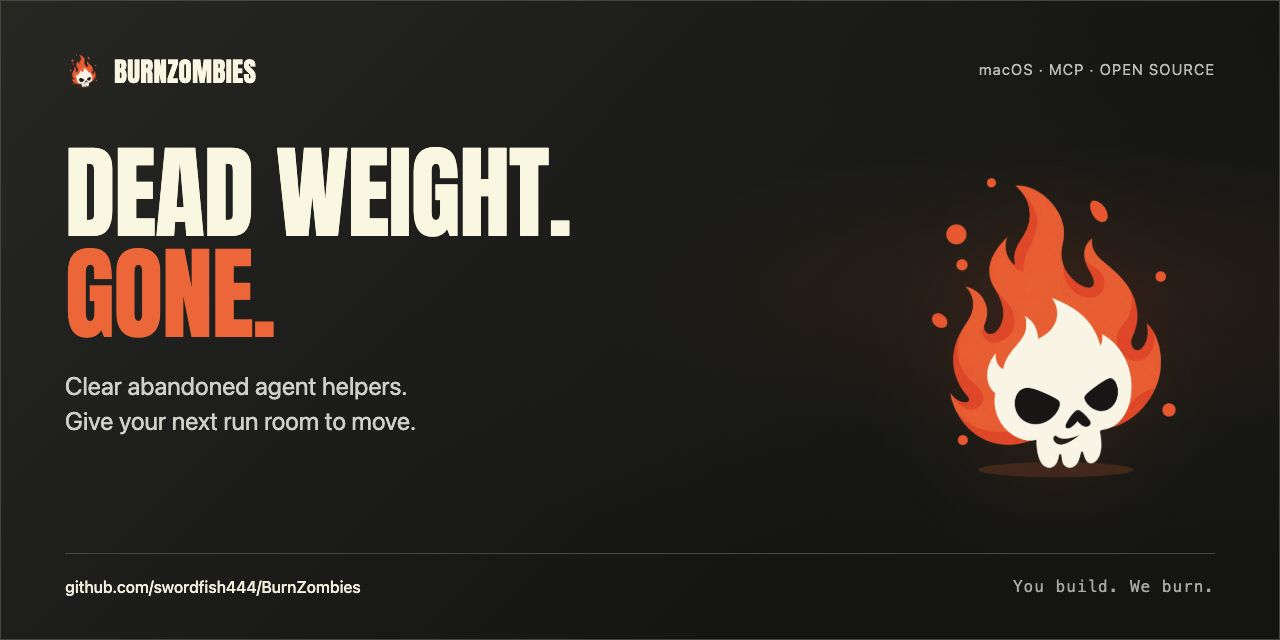
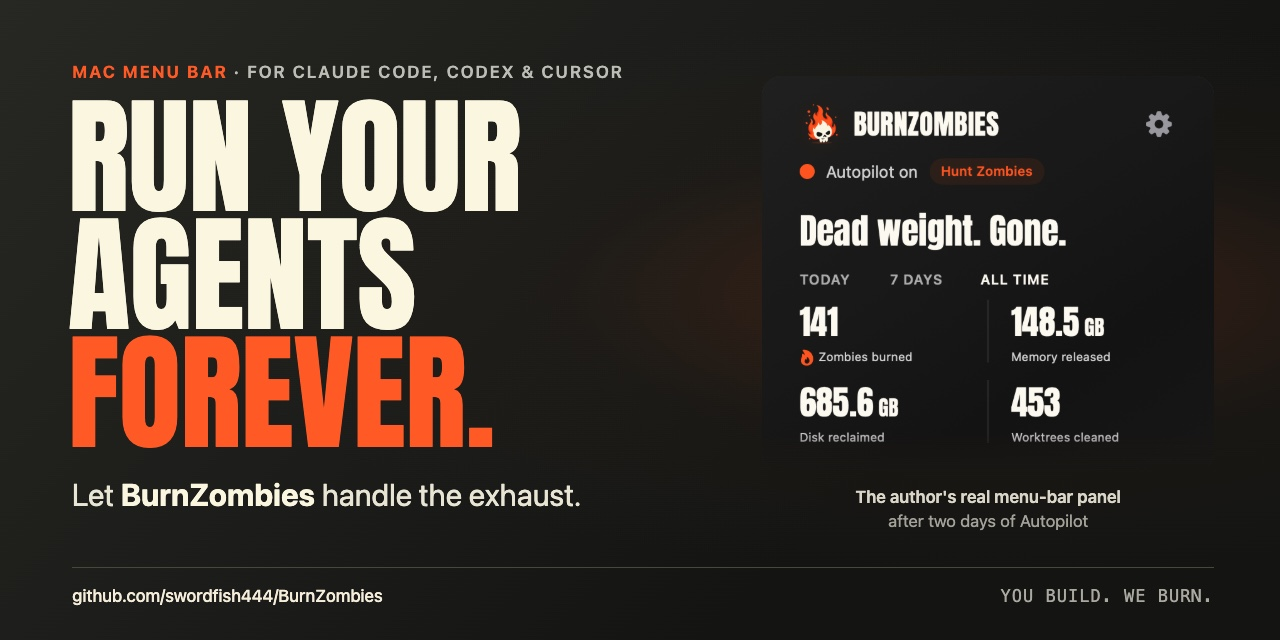
README: draft 3 from the second newcomer review

diff --git a/docs/media/social-card.html b/docs/media/social-card.html
@@ -1,28 +1,33 @@
 <!doctype html>
 <html lang="en">
 <meta charset="utf-8">
-<title>BurnZombies — Dead weight. Gone.</title>
+<title>BurnZombies — Run your agents forever</title>
 <style>
 @font-face{font-family:Anton;src:url('../../Sources/BurnApp/Resources/Anton-Regular.ttf')}
 *{box-sizing:border-box}html,body{margin:0;width:1280px;height:640px;overflow:hidden}
 body{background:#141513;color:#faf6df;font-family:-apple-system,BlinkMacSystemFont,Arial,sans-serif}
-main{width:1280px;height:640px;position:relative;padding:48px 64px;background:radial-gradient(ellipse at 83% 46%,#42241988 0%,#1e1f1b44 30%,transparent 57%),linear-gradient(135deg,#262723,#141513 70%);border:1px solid #46453d}
-header{display:flex;align-items:center;gap:13px;font-family:Anton;font-size:27px;letter-spacing:.3px}
-header img{width:36px;height:44px;object-fit:contain}
-.platform{position:absolute;top:59px;right:64px;color:#bcbdb4;font-size:15px;letter-spacing:1px}
-h1{font:102px/.99 Anton;margin:49px 0 24px;letter-spacing:-1px;position:relative;z-index:1}
+main{width:1280px;height:640px;position:relative;
+  background:radial-gradient(ellipse at 77% 46%,#5a2a1890 0%,#2a1d1640 30%,transparent 57%),linear-gradient(135deg,#272823,#141513 70%)}
+.eyebrow{position:absolute;left:72px;top:62px;font-size:17px;font-weight:600;letter-spacing:2px;color:#bcbdb4}
+.eyebrow b{color:#ff5a26;font-weight:700}
+h1{position:absolute;left:68px;top:98px;margin:0;font:128px/.92 Anton;letter-spacing:-.4px}
 h1 span{color:#ff5a26}
-p{font-size:25px;line-height:1.4;color:#d0d0c7;margin:0;max-width:685px}
-.mascot{position:absolute;right:70px;top:153px;width:320px;height:344px;object-fit:contain;filter:drop-shadow(0 14px 40px #ff551319)}
-footer{position:absolute;left:64px;right:64px;bottom:43px;border-top:1px solid #49473c;padding-top:23px;display:flex;align-items:center;justify-content:space-between;color:#aaa99f;font-size:16px}
-footer strong{font-weight:500;color:#f5edda}footer span{font-family:monospace;letter-spacing:1px}
+p{position:absolute;left:72px;top:476px;margin:0;font-size:31px;color:#e9e5d4}
+p b{color:#faf6df}
+.panel{position:absolute;right:66px;top:76px;width:452px;height:396px;border-radius:20px;overflow:hidden;
+  box-shadow:0 30px 70px #000b,0 0 0 1px #504e45;-webkit-mask-image:linear-gradient(#000 90%,transparent)}
+.panel img{display:block;width:452px}
+.caption{position:absolute;right:66px;top:486px;width:452px;text-align:center;font-size:17px;line-height:1.4;color:#a3a298}
+.caption b{color:#d9d6c8;font-weight:600}
+footer{position:absolute;left:72px;right:66px;bottom:34px;border-top:1px solid #49473c;padding-top:18px;display:flex;justify-content:space-between;color:#aaa99f;font-size:17px}
+footer strong{font-weight:500;color:#f5edda}footer span{font-family:Menlo,monospace;letter-spacing:1px}
 </style>
 <main>
-<header><img src="../../Sources/BurnApp/Resources/EmberSkull.png" alt=""> BURNZOMBIES</header>
-<div class="platform">macOS · MCP · OPEN SOURCE</div>
-<h1>DEAD WEIGHT.<br><span>GONE.</span></h1>
-<p>Clear abandoned agent helpers.<br>Give your next run room to move.</p>
-<img class="mascot" src="../../Sources/BurnApp/Resources/EmberSkull.png" alt="BurnZombies flaming skull mascot">
-<footer><strong>github.com/swordfish444/BurnZombies</strong><span>You build. We burn.</span></footer>
+<div class="eyebrow"><b>MAC MENU BAR</b> · FOR CLAUDE CODE, CODEX &amp; CURSOR</div>
+<h1>RUN YOUR<br>AGENTS<br><span>FOREVER.</span></h1>
+<p>Let <b>BurnZombies</b> handle the exhaust.</p>
+<div class="panel"><img src="panel-real.png" alt=""></div>
+<div class="caption"><b>The author's real menu-bar panel</b><br>after two days of Autopilot</div>
+<footer><strong>github.com/swordfish444/BurnZombies</strong><span>YOU BUILD. WE BURN.</span></footer>
 </main>
 </html>

diff --git a/docs/media/readme-hero-phone.html b/docs/media/readme-hero-phone.html
@@ -1,0 +1,34 @@
+<!doctype html>
+<html lang="en">
+<meta charset="utf-8">
+<title>BurnZombies README hero (phones)</title>
+<style>
+@font-face{font-family:Anton;src:url('../../Sources/BurnApp/Resources/Anton-Regular.ttf')}
+*{box-sizing:border-box}
+html,body{margin:0;background:transparent}
+main{width:390px;height:470px;position:relative;overflow:hidden;border-radius:18px;
+  background:radial-gradient(ellipse at 80% 82%,#5a2a1890 0%,#2a1d1640 34%,transparent 62%),linear-gradient(160deg,#272823,#141513 70%);
+  border:1px solid #3f3e37;color:#faf6df;font-family:-apple-system,BlinkMacSystemFont,Arial,sans-serif}
+.eyebrow{position:absolute;left:26px;top:24px;font-size:11.5px;font-weight:600;letter-spacing:1.3px;color:#bcbdb4;line-height:1.5}
+.eyebrow b{color:#ff5a26;font-weight:700}
+h1{position:absolute;left:24px;top:68px;margin:0;font:72px/.92 Anton;letter-spacing:-.3px}
+h1 span{color:#ff5a26}
+p{position:absolute;left:26px;top:278px;margin:0;font-size:19px;color:#e9e5d4}
+p b{color:#faf6df}
+.stats{position:absolute;left:26px;right:26px;top:326px;display:flex;gap:40px;border-top:1px solid #49473c;padding-top:16px}
+.stat b{display:block;font:50px/1 Anton;color:#faf6df}
+.stat b small{font-size:22px;margin-left:3px}
+.stat span{display:block;margin-top:5px;font-size:13px;color:#c9c6b8}
+.note{position:absolute;left:26px;bottom:20px;font-size:12px;color:#a3a298}
+</style>
+<main>
+<div class="eyebrow"><b>MAC MENU BAR</b> · FOR CLAUDE CODE,<br>CODEX &amp; CURSOR</div>
+<h1>RUN YOUR<br>AGENTS<br><span>FOREVER.</span></h1>
+<p>Let <b>BurnZombies</b> handle the exhaust.</p>
+<div class="stats">
+  <div class="stat"><b>685.6<small>GB</small></b><span>disk reclaimed</span></div>
+  <div class="stat"><b>453</b><span>worktrees cleaned</span></div>
+</div>
+<div class="note">The author's Mac, first two days of Autopilot</div>
+</main>
+</html>

diff --git a/README.md b/README.md
@@ -1,10 +1,14 @@
 <p align="center">
-  <img src="docs/media/readme-hero.png" width="900" alt="A Mac menu-bar app for Claude Code, Codex and Cursor. Run your agents forever. Let BurnZombies handle the exhaust: zombie processes, stale worktrees, node_modules and build junk. Beside it, the author's real menu-bar panel after two days of Autopilot: 141 zombies burned, 148.5 GB of memory released, 685.6 GB of disk reclaimed and 453 worktrees cleaned.">
+  <picture>
+    <source media="(max-width: 600px)" srcset="docs/media/readme-hero-phone.png">
+    <img src="docs/media/readme-hero.png" width="900" alt="A Mac menu-bar app for Claude Code, Codex and Cursor. Run your agents forever. Let BurnZombies handle the exhaust: zombie processes, stale worktrees, node_modules and build junk. Beside it, the author's real menu-bar panel after two days of Autopilot: 685.6 GB of disk reclaimed and 453 worktrees cleaned.">
+  </picture>
 </p>
 
+<h3 align="center">BurnZombies (BZ) cleans up after your AI coding agents, on its own.</h3>
+
 <p align="center">
-  <b>BurnZombies (BZ) cleans up after your AI coding agents, on its own.</b><br>
-  It stops the processes they orphan and deletes the worktrees and rebuildable junk they leave behind, backing up every worktree first. In its first two days on the author's Mac, it freed <b>685.6 GB</b> and cleared <b>453</b> stale worktrees.
+  It stops the processes they orphan and deletes the worktrees and rebuildable junk they leave behind, backing up every worktree first. On the author's Mac, which had about 1,000 agent worktrees, its first two days freed <b>685.6 GB</b> and cleared <b>453</b> stale ones.
 </p>
 
 <p align="center">On your Mac, paste this into Terminal:</p>
@@ -22,40 +26,38 @@ curl -fsSL https://raw.githubusercontent.com/swordfish444/BurnZombies/main/insta
 3. **BZ burns the exhaust.** Every 15 minutes it stops orphaned processes and deletes stale worktrees and rebuildable junk, backing up each worktree first. When it isn't sure, it asks you one yes/no question and remembers your answer.
 
 <p align="center">
-  <img src="docs/media/readme-first-minute.jpg" width="250" alt="The menu-bar panel a minute after install, with example data: Autopilot on, BZ has 3 quick questions worth 32.8 GB, and Found 38.5 GB of leftovers.">
-  &nbsp;
-  <img src="docs/media/readme-question.jpg" width="437" alt="A Teach BZ question card, with example data: Burn 5 tool caches? Frees 20.3 GB. Unused for a month. Inside your projects. Your tools rebuild them when needed. Yes, burn them or No, keep them.">
+  <img src="docs/media/readme-question.jpg" width="480" alt="A Teach BZ question card, with example data: Burn 5 tool caches? Frees 20.3 GB. Unused for a month. Inside your projects. Your tools rebuild them when needed. Yes, burn them or No, keep them.">
+  <br><sub>When BZ isn't sure, it asks. One tap, and it remembers. (Example data.)</sub>
 </p>
-<p align="center"><sub><b>Minute one:</b> what BZ found &nbsp;·&nbsp; <b>When it isn't sure:</b> one tap, and it remembers &nbsp;·&nbsp; example data</sub></p>
-
-## What it burns
-
-| The exhaust | The safety net |
-| --- | --- |
-| 🧟 **Zombie processes**: orphaned Node workers, headless browsers and build watchers still running after their app or chat is gone | A polite `SIGTERM`, sent only after an exact identity check. |
-| 📁 **Stale worktrees** nothing is using | A Git ref inside the repo first saves every commit, uncommitted change and untracked file, and BZ verifies it. Restore from **Findings** for 30 days. |
-| 🗑 **Rebuildable junk**: `node_modules`, build output, DerivedData | Your tools rebuild it when needed. |
-
-## Safe by default
-
-- **Hands off what's yours.** BZ never touches macOS, your apps, your AI tools, your main project folders, or anything a running Claude Code or Codex chat is working in. It knows which chats are running from the session records those tools keep on your Mac.
-- **On its own, only the obvious.** Starter rules burn programs whose app or chat is gone after 6+ idle hours with no open port, merged worktrees with no local changes untouched for a month, and junk inside worktrees untouched for two weeks. Switch any of them off in **Settings → Autopilot**.
-- **The AI is boxed in.** With Claude Code or Codex signed in, it may burn an item on its own only when it's at least 85% sure and the item is low-risk: an orphaned program with no open port, a known junk folder, or a worktree nothing uses. Worktrees that Claude Code, Codex or Conductor made are never burned without your yes.
-- **You have the last word.** **No** and **Keep forever** always win. Each **Yes** becomes a rule you can see and forget in **Settings → Autopilot → What BZ has learned**. **Findings** shows every item, why BZ thinks so, and what burning it does.
-- **Checked, not promised.** At most 50 programs, 20 worktrees and 20 junk folders go per look, and locked or mid-merge worktrees are refused. The [proof suite](Proof) tests these rules on every code change. [How cleanup stays safe →](docs/SAFETY.md)
 
 ## What happens next
 
-- **Minute one:** BZ shows what it found and asks its first questions.
-- **First half hour:** it looks every minute. With Claude Code or Codex signed in, the first AI sweep starts around minute 10.
-- **From then on:** it looks every 15 minutes, quietly. Open the panel any time to see what you got back.
+- **Minute one:** BZ shows what it found and asks its first questions. Its starter rules start burning the obvious right away.
+- **Around minute 10:** if Claude Code or Codex is signed in, the first AI sweep judges what the rules don't cover. It runs on your own login: roughly $0.30–$1.20 a sweep on API pricing, or plan usage on a subscription.
+- **From then on:** BZ looks every 15 minutes, quietly. AI sweeps run only when there's something new to judge, at most every 30 minutes.
+
+## What it burns
+
+- 🧟 **Zombie processes**: Node workers, headless browsers and build watchers left running after their app or chat is gone.<br>
+  **Safety net:** a polite `SIGTERM`, sent only after an exact identity check.
+- 📁 **Stale worktrees** nothing is using.<br>
+  **Safety net:** first, a Git ref inside the repo saves every commit, uncommitted change and untracked file, and BZ verifies it. Restore from **Findings** for 30 days.
+- 🗑 **Rebuildable junk**: `node_modules`, build output, DerivedData.<br>
+  **Safety net:** your tools rebuild it when needed.
+
+## Safe by default
+
+- **Hands off what's in use.** BZ never touches macOS, your apps, your AI tools, your main project folders, or any worktree or program something is using. It also reads the session records Claude Code and Codex keep, so even an idle chat's folder stays safe.
+- **On its own, only the obvious.** Starter rules take orphaned programs idle for 6+ hours with no open port, merged worktrees with no local changes untouched for a month, and junk inside worktrees untouched for two weeks. Switch any of them off in **Settings → Autopilot**.
+- **AI with limits.** Your Claude Code or Codex may burn a low-risk item on its own only when it's at least 85% sure. Worktrees made by Claude Code, Codex or the Conductor app always wait for your yes.
+- **You have the last word.** **No** and **Keep forever** always win, and every **Yes** becomes a rule you can forget in **Settings → Autopilot → What BZ has learned**. The [proof suite](Proof) tests these rules on every code change. [How cleanup stays safe →](docs/SAFETY.md)
 
 ## FAQ
 
 <details>
-<summary><b>Does it use AI? What does that cost?</b></summary>
+<summary><b>Can I keep the AI off?</b></summary>
 
-Only if Claude Code or Codex is installed and signed in; then AI sweeps are on by default. A sweep runs your own Claude Code or Codex with your login, only when there's something new to judge: at most every 30 minutes, plus a recheck every 4 hours. On API pricing a sweep costs roughly $0.30–$1.20; on a Claude or ChatGPT subscription it uses plan usage. **Settings → Usage & estimated cost** shows what sweeps used. To keep AI off, install with `curl … | bash -s -- --observe-only`, or run `burnzombies setup --observe-only` later. [Model and cost →](docs/INSTALL.md#model-and-cost)
+Yes. Without Claude Code or Codex signed in there's no AI at all; with one, AI sweeps are on by default. Install with `curl … | bash -s -- --observe-only` to keep them off, or run `burnzombies setup --observe-only` later (`--with-ai` turns them back on). **Settings → Usage & estimated cost** shows what sweeps used. [Model and cost →](docs/INSTALL.md#model-and-cost)
 
 </details>
 
@@ -83,7 +85,7 @@ Worktrees, yes: **Restore** in **Findings** for 30 days. The restore point is a 
 <details>
 <summary><b>I run long background jobs on purpose. Are they safe?</b></summary>
 
-On its own, BZ only stops a program whose app or chat is gone and that has no open port: the starter rule also waits for 6+ idle hours, and the AI must be at least 85% sure. For anything you want kept no matter what, click **Keep forever** on it in **Findings**; BZ and the AI then leave it alone.
+Click **Keep forever** on one in **Findings**, and BZ and the AI leave it alone. On its own, BZ only stops a program whose app or chat is gone and that has no open port.
 
 </details>
 
@@ -102,9 +104,9 @@ It downloads the release it pins, checks it against that release's SHA-256 check
 </details>
 
 <details>
-<summary><b>Can my agent install it?</b></summary>
+<summary><b>Can Claude Code or Codex install it for me?</b></summary>
 
-Yes. Give Claude Code or Codex this prompt:
+Yes. Give it this prompt:
 
 > Install and set up BurnZombies using https://raw.githubusercontent.com/swordfish444/BurnZombies/main/llms.txt. Preserve my existing agent settings and verify setup without running cleanup.
 
@@ -119,6 +121,6 @@ Stop BZ, then delete the app and its data folder. Restore points stay in your re
 
 ## Learn more
 
-[User guide](docs/USER_GUIDE.md) · [How Autopilot decides](docs/AUTOPILOT.md) · [How cleanup stays safe](docs/SAFETY.md) · [Install options](docs/INSTALL.md) · [MCP](docs/MCP.md) · [Tell us what your agents leave behind](https://github.com/swordfish444/BurnZombies/issues/new?template=feedback.yml)
+[User guide](docs/USER_GUIDE.md) · [How Autopilot decides](docs/AUTOPILOT.md) · [Safety](docs/SAFETY.md) · [Install options](docs/INSTALL.md) · [MCP](docs/MCP.md) · [Feedback](https://github.com/swordfish444/BurnZombies/issues/new?template=feedback.yml)
 
 <p align="center"><b>You build. We burn.</b></p>

diff --git a/docs/BRAND.md b/docs/BRAND.md
@@ -16,26 +16,25 @@ Anton is bundled from the [Google Fonts Anton directory](https://github.com/goog
 
 ## Public previews
 
-The README opens with `docs/media/readme-hero.png`, rendered from `docs/media/readme-hero.html`. Its panel, `docs/media/panel-real.png`, is the author's own compact panel on the All time tab after two days of Autopilot (2026-11-02 to 11-04), rendered offscreen from a copy of that Mac's catalog and Autopilot tally. It shows totals only: no names, paths or process details. The other README images use the app's isolated example data, and the README says so.
+The README opens with `docs/media/readme-hero.png`, rendered from `docs/media/readme-hero.html`. Its panel, `docs/media/panel-real.png`, is the author's own compact panel on the All time tab after two days of Autopilot (2026-11-02 to 11-04), rendered offscreen from a copy of that Mac's catalog and Autopilot tally. It shows totals only: no names, paths or process details. Phones get `docs/media/readme-hero-phone.png` (from `readme-hero-phone.html`, rendered the same way at 390 × 470) with the same two-day totals in larger type. The question card uses the app's isolated example data, and the README says so.
 
-Refresh the example images without opening a window or starting an observer:
+Refresh the example question card without opening a window or starting an observer:
 
 ```sh
 swift build --product BurnZombiesApp
-.build/debug/BurnZombiesApp --mini-proof /tmp/bz-readme-mini
 .build/debug/BurnZombiesApp --autopilot-proof /tmp/bz-readme-autopilot
-.build/debug/BurnZombiesApp --hunt-scene-proof /tmp/bz-readme-hunt
-sips -s format jpeg -s formatOptions 90 /tmp/bz-readme-mini/newcomer.png --out docs/media/readme-first-minute.jpg
-sips -s format jpeg -s formatOptions 90 /tmp/bz-readme-autopilot/teach.png --out docs/media/readme-question.jpg
-cp /tmp/bz-readme-hunt/burning.png docs/media/readme-hunt.png
+sips -s format jpeg -s formatOptions 90 /tmp/bz-readme-autopilot/teach-caches.png --out docs/media/readme-question.jpg
 ```
 
-Then render the hero at 2x, transparent outside its rounded card:
+Then render the hero at 2x, transparent outside its rounded card (the phone hero likewise), and the 1280 × 640 link-preview card (upload it in the repository's **Settings → Social preview**):
 
 ```sh
 "/Applications/Google Chrome.app/Contents/MacOS/Google Chrome" --headless --hide-scrollbars \
   --window-size=900,440 --force-device-scale-factor=2 --default-background-color=00000000 \
   --virtual-time-budget=3000 --screenshot=docs/media/readme-hero.png "file://$PWD/docs/media/readme-hero.html"
+"/Applications/Google Chrome.app/Contents/MacOS/Google Chrome" --headless --hide-scrollbars \
+  --window-size=1280,640 --virtual-time-budget=3000 --screenshot=/tmp/social-card.png "file://$PWD/docs/media/social-card.html"
+sips -s format jpeg -s formatOptions 88 /tmp/social-card.png --out docs/media/social-card.jpg
 ```
 
 The render checks exercise the shipped views in memory and use OCR to check what they show. They prohibit app activation and do not create an observer, signal processes, or save production state.
